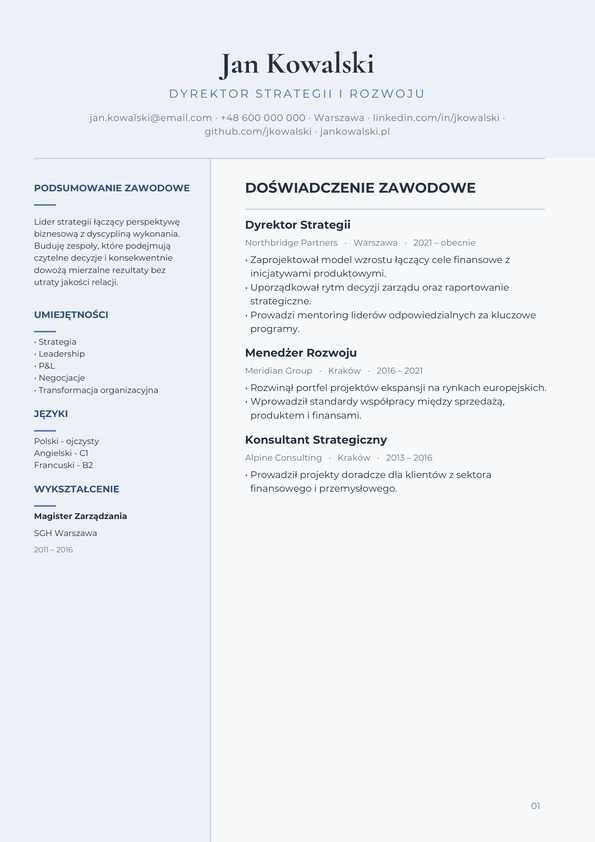
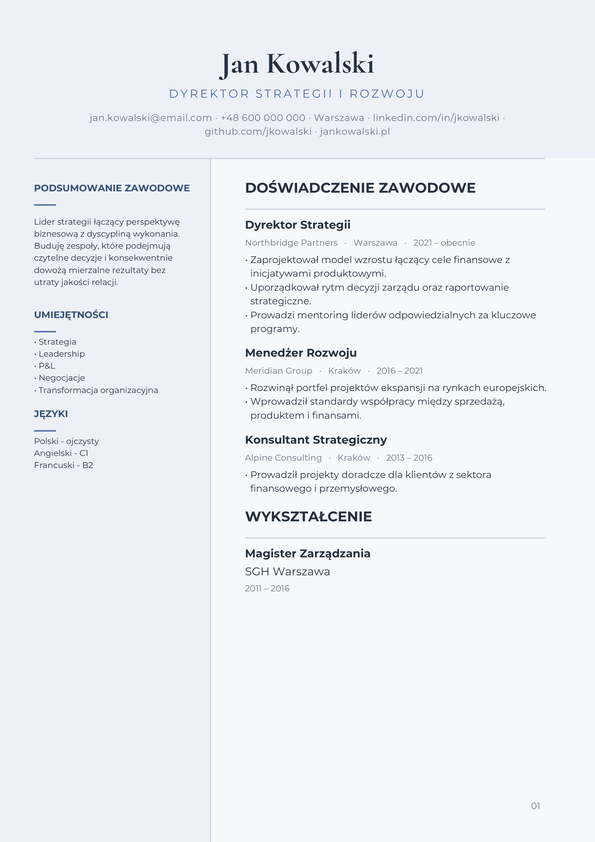
feat: balance-driven Sterling layout — regenerate starter/mockup, docs
Regenerate the Sterling starter and mockup from the planner-driven
generator (Education now renders in the main column beside a lighter
sidebar). Update sterling.test.js for the new multi-section main column,
and document the balance-driven placement in the README (EN + PL).

Changed region(s): [[0.0605, 0.5558, 0.2118, 0.6793], [0.3933, 0.6485, 0.6353, 0.7102], [0.4235, 0.5867, 0.6353, 0.6176]]

diff --git a/frontend/src/templates/sterling.js b/frontend/src/templates/sterling.js
@@ -306,106 +306,6 @@ const STERLING_ELEMENTS = [
   },
   {
     "category": "text",
-    "content": "WYKSZTAŁCENIE",
-    "fontSize": 9.4,
-    "fontFamily": "Montserrat",
-    "color": "#33517A",
-    "left": 34.0,
-    "top": 489.0,
-    "zIndex": 3,
-    "page": 1,
-    "bold": true,
-    "italic": false,
-    "letterSpacing": 1.3,
-    "flowRole": "sidebar-chrome",
-    "flowLane": "sidebar"
-  },
-  {
-    "category": "line",
-    "left": 34.0,
-    "top": 505.28,
-    "width": 22,
-    "height": 1.4,
-    "backgroundColor": "#4A6FA5",
-    "zIndex": 2,
-    "page": 1,
-    "flowRole": "sidebar-chrome",
-    "flowLane": "sidebar"
-  },
-  {
-    "category": "textarea",
-    "content": "Magister Zarządzania",
-    "left": 34.0,
-    "top": 510.0,
-    "width": 152.0,
-    "height": 13,
-    "fontSize": 8.3,
-    "lineHeight": 12.04,
-    "letterSpacing": 0,
-    "color": "#26313F",
-    "fontFamily": "Montserrat",
-    "zIndex": 3,
-    "page": 1,
-    "bold": true,
-    "italic": false,
-    "align": "left",
-    "bulletList": false,
-    "autoHeight": true,
-    "preserveInitialLayout": true,
-    "flowGroup": "record-812d7a2d6f68",
-    "flowRole": "content",
-    "flowLane": "sidebar"
-  },
-  {
-    "category": "textarea",
-    "content": "SGH Warszawa",
-    "left": 34.0,
-    "top": 527.0,
-    "width": 152.0,
-    "height": 13,
-    "fontSize": 8.3,
-    "lineHeight": 12.04,
-    "letterSpacing": 0,
-    "color": "#26313F",
-    "fontFamily": "Montserrat",
-    "zIndex": 3,
-    "page": 1,
-    "bold": false,
-    "italic": false,
-    "align": "left",
-    "bulletList": false,
-    "autoHeight": true,
-    "preserveInitialLayout": true,
-    "flowGroup": "record-812d7a2d6f68",
-    "flowRole": "content",
-    "flowLane": "sidebar"
-  },
-  {
-    "category": "textarea",
-    "content": "2011 – 2016",
-    "left": 34.0,
-    "top": 544.0,
-    "width": 152.0,
-    "height": 12,
-    "fontSize": 7.5,
-    "lineHeight": 11.54,
-    "letterSpacing": 0,
-    "color": "#6B7684",
-    "fontFamily": "Montserrat",
-    "zIndex": 3,
-    "page": 1,
-    "bold": false,
-    "italic": false,
-    "align": "left",
-    "bulletList": false,
-    "autoHeight": true,
-    "preserveInitialLayout": true,
-    "flowGroup": "record-812d7a2d6f68",
-    "flowRole": "content",
-    "flowLane": "sidebar"
-  },
-  {
-    "category": "text",
     "content": "DOŚWIADCZENIE ZAWODOWE",
     "fontSize": 14.0,
     "fontFamily": "Montserrat",
@@ -450,7 +350,7 @@ const STERLING_ELEMENTS = [
     "bulletList": false,
     "autoHeight": true,
     "preserveInitialLayout": true,
-    "flowGroup": "record-1f8daff69b54",
+    "flowGroup": "record-2e527a1f8186",
     "flowRole": "content"
   },
   {
@@ -473,7 +373,7 @@ const STERLING_ELEMENTS = [
     "bulletList": false,
     "autoHeight": true,
     "preserveInitialLayout": true,
-    "flowGroup": "record-1f8daff69b54",
+    "flowGroup": "record-2e527a1f8186",
     "flowRole": "content"
   },
   {
@@ -496,7 +396,7 @@ const STERLING_ELEMENTS = [
     "bulletList": true,
     "autoHeight": true,
     "preserveInitialLayout": true,
-    "flowGroup": "record-1f8daff69b54",
+    "flowGroup": "record-2e527a1f8186",
     "flowRole": "content"
   },
   {
@@ -519,7 +419,7 @@ const STERLING_ELEMENTS = [
     "bulletList": false,
     "autoHeight": true,
     "preserveInitialLayout": true,
-    "flowGroup": "record-643afe34a0bf",
+    "flowGroup": "record-86410ff658ba",
     "flowRole": "content"
   },
   {
@@ -542,7 +442,7 @@ const STERLING_ELEMENTS = [
     "bulletList": false,
     "autoHeight": true,
     "preserveInitialLayout": true,
-    "flowGroup": "record-643afe34a0bf",
+    "flowGroup": "record-86410ff658ba",
     "flowRole": "content"
   },
   {
@@ -565,7 +465,7 @@ const STERLING_ELEMENTS = [
     "bulletList": true,
     "autoHeight": true,
     "preserveInitialLayout": true,
-    "flowGroup": "record-643afe34a0bf",
+    "flowGroup": "record-86410ff658ba",
     "flowRole": "content"
   },
   {
@@ -588,7 +488,7 @@ const STERLING_ELEMENTS = [
     "bulletList": false,
     "autoHeight": true,
     "preserveInitialLayout": true,
-    "flowGroup": "record-7d996ae8e6ef",
+    "flowGroup": "record-db6132e305b3",
     "flowRole": "content"
   },
   {
@@ -611,7 +511,7 @@ const STERLING_ELEMENTS = [
     "bulletList": false,
     "autoHeight": true,
     "preserveInitialLayout": true,
-    "flowGroup": "record-7d996ae8e6ef",
+    "flowGroup": "record-db6132e305b3",
     "flowRole": "content"
   },
   {
@@ -634,7 +534,102 @@ const STERLING_ELEMENTS = [
     "bulletList": true,
     "autoHeight": true,
     "preserveInitialLayout": true,
-    "flowGroup": "record-7d996ae8e6ef",
+    "flowGroup": "record-db6132e305b3",
+    "flowRole": "content"
+  },
+  {
+    "category": "text",
+    "content": "WYKSZTAŁCENIE",
+    "fontSize": 14.0,
+    "fontFamily": "Montserrat",
+    "color": "#26313F",
+    "left": 245.0,
+    "top": 516.7,
+    "zIndex": 3,
+    "page": 1,
+    "bold": true,
+    "italic": false,
+    "letterSpacing": 0.8,
+    "flowRole": "section-chrome"
+  },
+  {
+    "category": "line",
+    "left": 245.0,
+    "top": 537.4000000000001,
+    "width": 300.0,
+    "height": 1,
+    "backgroundColor": "#C7CFDA",
+    "zIndex": 2,
+    "page": 1,
+    "flowRole": "section-chrome"
+  },
+  {
+    "category": "textarea",
+    "content": "Magister Zarządzania",
+    "left": 245.0,
+    "top": 546.4000000000001,
+    "width": 300.0,
+    "height": 14,
+    "fontSize": 11.2,
+    "lineHeight": 14.0,
+    "letterSpacing": 0,
+    "color": "#26313F",
+    "fontFamily": "Montserrat",
+    "zIndex": 2,
+    "page": 1,
+    "bold": true,
+    "italic": false,
+    "align": "left",
+    "bulletList": false,
+    "autoHeight": true,
+    "preserveInitialLayout": true,
+    "flowGroup": "record-acbb1b827f4e",
+    "flowRole": "content"
+  },
+  {
+    "category": "textarea",
+    "content": "SGH Warszawa",
+    "left": 245.0,
+    "top": 564.4000000000001,
+    "width": 300.0,
+    "height": 14,
+    "fontSize": 11.2,
+    "lineHeight": 14.0,
+    "letterSpacing": 0,
+    "color": "#26313F",
+    "fontFamily": "Montserrat",
+    "zIndex": 2,
+    "page": 1,
+    "bold": false,
+    "italic": false,
+    "align": "left",
+    "bulletList": false,
+    "autoHeight": true,
+    "preserveInitialLayout": true,
+    "flowGroup": "record-acbb1b827f4e",
+    "flowRole": "content"
+  },
+  {
+    "category": "textarea",
+    "content": "2011 – 2016",
+    "left": 245.0,
+    "top": 582.4000000000001,
+    "width": 300.0,
+    "height": 12,
+    "fontSize": 8.6,
+    "lineHeight": 11.8,
+    "letterSpacing": 0,
+    "color": "#6B7684",
+    "fontFamily": "Montserrat",
+    "zIndex": 2,
+    "page": 1,
+    "bold": false,
+    "italic": false,
+    "align": "left",
+    "bulletList": false,
+    "autoHeight": true,
+    "preserveInitialLayout": true,
+    "flowGroup": "record-acbb1b827f4e",
     "flowRole": "content"
   }
 ];

diff --git a/frontend/src/templates/sterling.test.js b/frontend/src/templates/sterling.test.js
@@ -83,7 +83,9 @@ test("Sterling is a wide-sidebar, letterhead-masthead layout with structured sid
         (element) => element.flowRole === "sidebar-chrome" && element.category === "text"
             && element.left === 34 && element.bold === true,
     );
-    assert.ok(sidebarKickers.length >= 4, "summary + education + skills + languages, at minimum");
+    // Education may be routed to the main column by the two-column planner, so
+    // the rail is guaranteed only Summary + Skills + Languages here.
+    assert.ok(sidebarKickers.length >= 3, "summary + skills + languages, at minimum");
     assert.ok(sidebarKickers.every((element) => (element.page ?? 1) === 1));
     assert.ok(sidebarKickers.every((element) => element.flowLane === "sidebar"));
 
@@ -109,30 +111,33 @@ test("Sterling is a wide-sidebar, letterhead-masthead layout with structured sid
     assert.ok(languagesBody.content.includes("Polski - ojczysty"));
     assert.equal(languagesBody.flowLane, "sidebar");
 
-    // Education is the one structured exception in the sidebar: separate
-    // degree / school / period elements (matching single-column records),
-    // not one mashed textarea.
+    // Education renders as structured degree / school / period elements
+    // (matching single-column records), not one mashed textarea, and shares a
+    // flowGroup — whichever column the two-column planner routes it to.
     const eduDegree = sterlingTemplate.find((element) => element.content === "Magister Zarządzania");
     const eduSchool = sterlingTemplate.find((element) => element.content === "SGH Warszawa");
     assert.ok(eduDegree?.bold);
     assert.ok(eduSchool);
-    assert.equal(eduDegree.flowLane, "sidebar");
     assert.equal(eduDegree.flowGroup, eduSchool.flowGroup);
 
-    // ── Main column: exactly one section (Experience) — every other section
-    // type lives in the sidebar by design. ────────────────────────────────────
+    // ── Main column: Experience is always here; the two-column planner may also
+    // route Education (and other sections) here to balance the columns against
+    // the page-1-only sidebar. Every main-column heading is left-anchored at
+    // MAIN_L and carries a matching rule in the shared harmonious colour. ─────
     const headingLabels = sterlingTemplate.filter(
         (element) => element.flowRole === "section-chrome" && element.category === "text",
     );
-    assert.equal(headingLabels.length, 1);
-    assert.equal(headingLabels[0].content, "DOŚWIADCZENIE ZAWODOWE");
-    assert.equal(headingLabels[0].left, MAIN_L);
+    assert.ok(headingLabels.some((element) => element.content === "DOŚWIADCZENIE ZAWODOWE"));
+    assert.ok(headingLabels.every((element) => element.left === MAIN_L));
 
     const sectionRules = sterlingTemplate.filter(
         (element) => element.flowRole === "section-chrome" && element.category === "line"
             && element.width === MAIN_W && element.backgroundColor === RULE,
     );
-    assert.equal(sectionRules.length, 1, "the section rule reuses the same harmonious rule color");
+    assert.equal(
+        sectionRules.length, headingLabels.length,
+        "each main-column heading has a matching rule in the shared harmonious colour",
+    );
 
     // ── Records: stacked title → org → period → bullets, every line its own
     // element (no same-row ordinal badge — see the generator's module

diff --git a/README.md b/README.md
@@ -899,7 +899,9 @@ Tests:
 
 ### Sterling wide-sidebar elegant template
 
-Sterling is a paid, two-column template (`layouts: ["sidebar"]`) with a quiet blue-gray (`#4A6FA5` accent, `#26313F` ink, `#F7F8FA` paper) palette. Its brief is a **centered letterhead masthead** — serif (`CormorantGaramond`) display name, tracked uppercase title, mid-dot contact line — sitting on a **full-width tinted "letterhead band"** (a `595`-pt-wide filled rectangle in the rail tint `#EDF1F6`, from the top of the page down to the masthead rule) and closed by a **horizontal rule spanning both columns**. The band exists so the vertical sidebar divider and the rail fill both begin at the band's bottom edge (`rule_y`) instead of at `y = 0`: because the masthead is centered on the page, its title and contact lines cross the `x = 210` column boundary, and a full-height divider would run straight up through them, visually "cutting" the centered letterhead. Reusing the rail tint (`#EDF1F6`) makes the top band and the left rail read as one continuous field, while the main column below the band stays on paper. Below that rule, a wide sidebar (`210` pt) carries Summary, Education, Skills, and Languages; the main column carries only Experience (plus any record-style extras a CV happens to have). One rule color (`#C7CFDA`) is reused for the masthead underline, the sidebar divider, and every main-column section rule, so the page reads as one coherent system rather than several separately-styled dividers — the "harmonijny" (harmonious) brief was explicit about this. Continuation pages carry no masthead, so their rail and divider run the full page height.
+Sterling is a paid, two-column template (`layouts: ["sidebar"]`) with a quiet blue-gray (`#4A6FA5` accent, `#26313F` ink, `#F7F8FA` paper) palette. Its brief is a **centered letterhead masthead** — serif (`CormorantGaramond`) display name, tracked uppercase title, mid-dot contact line — sitting on a **full-width tinted "letterhead band"** (a `595`-pt-wide filled rectangle in the rail tint `#EDF1F6`, from the top of the page down to the masthead rule) and closed by a **horizontal rule spanning both columns**. The band exists so the vertical sidebar divider and the rail fill both begin at the band's bottom edge (`rule_y`) instead of at `y = 0`: because the masthead is centered on the page, its title and contact lines cross the `x = 210` column boundary, and a full-height divider would run straight up through them, visually "cutting" the centered letterhead. Reusing the rail tint (`#EDF1F6`) makes the top band and the left rail read as one continuous field, while the main column below the band stays on paper. Below that rule the page splits into a wide sidebar (`210` pt) and the main column; **which section lands in which column is decided by a balance-driven planner** (described next), not a fixed rule. One rule color (`#C7CFDA`) is reused for the masthead underline, the sidebar divider, and every main-column section rule, so the page reads as one coherent system rather than several separately-styled dividers — the "harmonijny" (harmonious) brief was explicit about this. Continuation pages carry no masthead, so their rail and divider run the full page height.
+
+**Section placement is balance-driven.** Rather than filling the sidebar first, Sterling measures every section's height in both column widths and calls the shared `plan_columns` planner (`backend/app/services/cv_templates/shared/column_planner.py`) to partition sections between the columns, minimising page-1 imbalance. Experience is anchored to the main column; every other section is movable, and may render in either column. Because the sidebar cannot paginate, the sidebar assignment is a hard page-1 fit while the main column may overflow onto later pages (its overflow is therefore not counted as wasted space). In practice Education follows Experience in the main column, and moves into the sidebar only when a long Experience block already fills page 1. The planner is a small greedy local search: seed each section by its natural column affinity, force the sidebar under budget, then repeatedly apply the single move that most reduces `max(empty_sidebar, empty_main)` until the columns are balanced or no move clears a minimum-improvement threshold.
 
 The masthead is centered — every element in it carries `flowRole: "masthead"` (fully exempt from section packing), so centering introduces no column-detection risk the way a centered *section heading* would. The sidebar reuses the shared `_sidebar_candidates` / `_fit_sidebar_sections` / `_fitted_sidebar_body_elements` machinery Tessera and Slate already use and **does not filter out Skills** — Sterling's brief was "every simple/flat section belongs in the sidebar, Education is the one structured exception," which is exactly what that shared, unfiltered candidate list already provides (Education renders as separate degree/school/meta/bullet elements sharing one `flowGroup`, not a single mashed textarea).
 
@@ -907,7 +909,8 @@ Implementation note this template surfaced: `_fit_sidebar_sections` auto-picks a
 
 Implementation:
 
-- `backend/app/services/cv_templates/templates/sterling.py`, function `_gen_sterling` — centered letterhead masthead + closing rule, `sidebar_kicker`, unconditional summary + unfiltered `_fit_sidebar_sections` fitting (Education/Skills/Languages/any simple extra), single-section main column (Experience only) via the shared record helpers
+- `backend/app/services/cv_templates/shared/column_planner.py`, `plan_columns` / `PlaceableSection` / `ColumnPlan` — the pure, balance-driven two-column partitioner shared by sidebar templates
+- `backend/app/services/cv_templates/templates/sterling.py`, function `_gen_sterling` — centered letterhead masthead + closing rule, `sidebar_kicker`, per-section descriptor building (measures each section in both column widths), `plan_columns` call, then per-column rendering through the shared sidebar (`_fit_sidebar_sections` / `_fitted_sidebar_body_elements`) and main (`_place_experience_record` / `_place_education_record` / `_place_skills_section` / `_extra_sections`) helpers
 - `backend/app/services/cv_templates/registry.py`, `_GENERATORS["sterling"]` and `TEMPLATE_LAYOUTS["sterling"]` (`frozenset({"sidebar"})`)
 - `frontend/src/templates/sterling.js` — static starter emitted directly from the generator's own demo output (no images, so no API_BASE_URL rewrite is needed); exported array `sterlingTemplate`
 - `frontend/src/templates/index.js`, registry entry `sterling` (`tier: "paid"`, `layouts: ["sidebar"]`, `accent: "#4A6FA5"`)
@@ -917,6 +920,8 @@ Tests:
 
 - `frontend/src/templates/sterling.test.js` — page/sidebar/divider decorations (wide rail, thin rule-colored divider), the full-width letterhead band with the rail fill and divider both starting at the band's bottom edge (never crossing the centered masthead), centered masthead content closed by a horizontal rule, sidebar kickers tagged `flowRole: "sidebar-chrome"` + `flowLane: "sidebar"`, summary/skills/languages in the sidebar, structured (not mashed) sidebar education sharing one `flowGroup`, exactly one main-column section (Experience), stacked (not same-row) record title/org/period, zero `rectangle` elements
 - `frontend/src/templates/sterling.pack.test.js` (with `sterling.multipage.fixture.json`) — a real two-page, four-job Sterling document: the Experience heading stays glued to its body through `listDocumentSections` / `sectionElementIds` after `applyFlowSpacing` at both the default and a compact rhythm, the sidebar lane never folds into the main column, and structured sidebar education elements keep their shared `flowGroup` through a rhythm change
+- `backend/tests/test_column_planner.py` — the pure planner: a disjoint-cover partition, Experience always in main, a short Experience keeping Education in main, a large Experience pushing Education to the sidebar, a huge Experience keeping the sidebar within its page-1 budget, and the min-improvement threshold preventing trivial moves
+- `backend/tests/test_cv_template_layouts.py`, `test_sterling_balances_education_into_the_main_column` — end-to-end: a short-experience CV renders Education in the main column (`left == 245`), not the rail
 - `backend/tests/test_cv_template_layouts.py` and `backend/tests/test_template_registry_sync.py` iterate every registered generator, so Sterling is covered for summary-equals-body type size, page bounds, and frontend/backend id / layout-tag / tier parity without a dedicated entry
 
 ### Icon-tagged templates and icon reflow
@@ -2511,7 +2516,9 @@ Testy:
 
 ### Szablon Sterling (elegancki, szeroki sidebar)
 
-Sterling to płatny, dwukolumnowy szablon (`layouts: ["sidebar"]`) w stonowanej palecie niebiesko-szarej (`#4A6FA5` akcent, `#26313F` tusz, `#F7F8FA` papier). Brief to **wycentrowany masthead w stylu papieru firmowego** — szeryfowe (`CormorantGaramond`) imię i nazwisko, rozstrzelony wielkoliterowy tytuł, linia kontaktu z kropkami pośrodku — osadzony na **pełnoszerokościowym, przyciemnionym „pasie papieru firmowego”** (wypełniony prostokąt o szerokości `595` pt w kolorze szyny `#EDF1F6`, od góry strony do linii mastheadu) i zamknięty **poziomą linią rozciągającą się na obie kolumny**. Pas istnieje po to, aby pionowy divider sidebaru oraz wypełnienie szyny zaczynały się dopiero przy dolnej krawędzi pasa (`rule_y`), a nie przy `y = 0`: ponieważ masthead jest wycentrowany na stronie, jego tytuł i linia kontaktu przecinają granicę kolumn `x = 210`, a divider biegnący od `y = 0` przechodziłby przez nie w pionie, wizualnie „przycinając” wycentrowany nagłówek. Reużycie koloru szyny (`#EDF1F6`) sprawia, że górny pas i lewa szyna czytają się jako jedno ciągłe pole, podczas gdy kolumna główna poniżej pasa pozostaje na papierze. Poniżej tej linii szeroki sidebar (`210` pt) niesie Podsumowanie, Wykształcenie, Umiejętności i Języki; kolumna główna zawiera wyłącznie Doświadczenie (plus dowolne sekcje dodatkowe typu rekordowego, jeśli CV je ma). Jeden kolor linii (`#C7CFDA`) jest reużywany dla podkreślenia mastheadu, dividera sidebaru i każdej linii sekcji w kolumnie głównej, dzięki czemu strona czyta się jako jeden spójny system, a nie zbiór osobno stylizowanych linii — brief „harmonijny” był w tej kwestii wyraźny. Strony kontynuacyjne nie mają mastheadu, więc ich szyna i divider biegną na całą wysokość strony.
+Sterling to płatny, dwukolumnowy szablon (`layouts: ["sidebar"]`) w stonowanej palecie niebiesko-szarej (`#4A6FA5` akcent, `#26313F` tusz, `#F7F8FA` papier). Brief to **wycentrowany masthead w stylu papieru firmowego** — szeryfowe (`CormorantGaramond`) imię i nazwisko, rozstrzelony wielkoliterowy tytuł, linia kontaktu z kropkami pośrodku — osadzony na **pełnoszerokościowym, przyciemnionym „pasie papieru firmowego”** (wypełniony prostokąt o szerokości `595` pt w kolorze szyny `#EDF1F6`, od góry strony do linii mastheadu) i zamknięty **poziomą linią rozciągającą się na obie kolumny**. Pas istnieje po to, aby pionowy divider sidebaru oraz wypełnienie szyny zaczynały się dopiero przy dolnej krawędzi pasa (`rule_y`), a nie przy `y = 0`: ponieważ masthead jest wycentrowany na stronie, jego tytuł i linia kontaktu przecinają granicę kolumn `x = 210`, a divider biegnący od `y = 0` przechodziłby przez nie w pionie, wizualnie „przycinając” wycentrowany nagłówek. Reużycie koloru szyny (`#EDF1F6`) sprawia, że górny pas i lewa szyna czytają się jako jedno ciągłe pole, podczas gdy kolumna główna poniżej pasa pozostaje na papierze. Poniżej tej linii strona dzieli się na szeroki sidebar (`210` pt) i kolumnę główną; **o tym, która sekcja trafia do której kolumny, decyduje planer sterowany balansem** (opisany dalej), a nie stała reguła. Jeden kolor linii (`#C7CFDA`) jest reużywany dla podkreślenia mastheadu, dividera sidebaru i każdej linii sekcji w kolumnie głównej, dzięki czemu strona czyta się jako jeden spójny system, a nie zbiór osobno stylizowanych linii — brief „harmonijny” był w tej kwestii wyraźny. Strony kontynuacyjne nie mają mastheadu, więc ich szyna i divider biegną na całą wysokość strony.
+
+**Rozmieszczanie sekcji jest sterowane balansem.** Zamiast najpierw wypełniać sidebar, Sterling mierzy wysokość każdej sekcji w obu szerokościach kolumn i wywołuje wspólny planer `plan_columns` (`backend/app/services/cv_templates/shared/column_planner.py`), który dzieli sekcje między kolumny, minimalizując nierównowagę na stronie 1. Doświadczenie jest zakotwiczone w kolumnie głównej; każda inna sekcja jest ruchoma i może wyrenderować się w dowolnej kolumnie. Ponieważ sidebar nie może dzielić się na strony, jego przydział to twarde dopasowanie do strony 1, podczas gdy kolumna główna może przechodzić na kolejne strony (jej nadmiar nie jest więc liczony jako zmarnowane miejsce). W praktyce Wykształcenie następuje po Doświadczeniu w kolumnie głównej i przechodzi do sidebara tylko wtedy, gdy długie Doświadczenie zapełnia już stronę 1. Planer to małe zachłanne przeszukiwanie lokalne: zasiej każdą sekcję według jej naturalnej przynależności do kolumny, wepchnij sidebar poniżej budżetu, a następnie wielokrotnie zastosuj pojedynczy ruch najbardziej redukujący `max(puste_sidebar, puste_główna)`, aż kolumny się zrównoważą lub żaden ruch nie przekroczy progu minimalnej poprawy.
 
 Masthead jest wycentrowany — każdy jego element ma `flowRole: "masthead"` (całkowicie zwolniony z packingu sekcji), więc centrowanie nie niesie ryzyka związanego z detekcją kolumn, jakie miałoby centrowanie prawdziwego *nagłówka sekcji*. Sidebar reużywa wspólny mechanizm `_sidebar_candidates` / `_fit_sidebar_sections` / `_fitted_sidebar_body_elements`, którego używają już Tessera i Slate, i **nie filtruje Umiejętności** — brief Sterling brzmiał „każda prosta/płaska sekcja należy do sidebaru, Wykształcenie jest jedynym strukturalnym wyjątkiem”, co dokładnie zapewnia ta sama, niefiltrowana lista kandydatów (Wykształcenie renderuje się jako osobne elementy stopień/uczelnia/meta/punkty współdzielące jeden `flowGroup`, a nie jedna zlepiona textarea).
 
@@ -2519,7 +2526,8 @@ Implementacyjna uwaga, którą ten szablon ujawnił: `_fit_sidebar_sections` aut
 
 Implementacja:
 
-- `backend/app/services/cv_templates/templates/sterling.py`, funkcja `_gen_sterling` — wycentrowany masthead w stylu papieru firmowego + zamykająca linia, `sidebar_kicker`, bezwarunkowe podsumowanie + niefiltrowane dopasowanie `_fit_sidebar_sections` (Wykształcenie/Umiejętności/Języki/dowolna prosta sekcja dodatkowa), jednosekcyjna kolumna główna (wyłącznie Doświadczenie) przez wspólne helpery rekordów
+- `backend/app/services/cv_templates/shared/column_planner.py`, `plan_columns` / `PlaceableSection` / `ColumnPlan` — czysty, sterowany balansem partycjoner dwukolumnowy współdzielony przez szablony sidebarowe
+- `backend/app/services/cv_templates/templates/sterling.py`, funkcja `_gen_sterling` — wycentrowany masthead w stylu papieru firmowego + zamykająca linia, `sidebar_kicker`, budowa deskryptorów sekcji (mierzy każdą sekcję w obu szerokościach kolumn), wywołanie `plan_columns`, a następnie renderowanie każdej kolumny przez wspólne helpery sidebaru (`_fit_sidebar_sections` / `_fitted_sidebar_body_elements`) i kolumny głównej (`_place_experience_record` / `_place_education_record` / `_place_skills_section` / `_extra_sections`)
 - `backend/app/services/cv_templates/registry.py`, `_GENERATORS["sterling"]` i `TEMPLATE_LAYOUTS["sterling"]` (`frozenset({"sidebar"})`)
 - `frontend/src/templates/sterling.js` — statyczny starter emitowany bezpośrednio z wyjścia demo generatora (bez obrazów, więc bez przepisywania API_BASE_URL); eksportowana tablica `sterlingTemplate`
 - `frontend/src/templates/index.js`, wpis rejestru `sterling` (`tier: "paid"`, `layouts: ["sidebar"]`, `accent: "#4A6FA5"`)
@@ -2529,6 +2537,8 @@ Testy:
 
 - `frontend/src/templates/sterling.test.js` — dekoracje strony/sidebaru/dividera (szerszy pas, cienka linia w kolorze reguły), pełnoszerokościowy pas papieru firmowego, którego wypełnienie szyny i divider zaczynają się przy dolnej krawędzi pasa (nigdy nie przecinając wycentrowanego mastheadu), wycentrowana treść mastheadu zamknięta poziomą linią, kickery sidebaru otagowane `flowRole: "sidebar-chrome"` + `flowLane: "sidebar"`, podsumowanie/umiejętności/języki w sidebarze, strukturalne (nie zlepione) wykształcenie w sidebarze współdzielące jeden `flowGroup`, dokładnie jedna sekcja w kolumnie głównej (Doświadczenie), warstwowy (nie jednowierszowy) tytuł/organizacja/okres rekordu, zero elementów `rectangle`
 - `frontend/src/templates/sterling.pack.test.js` (z `sterling.multipage.fixture.json`) — realny dwustronicowy dokument Sterling z czterema stanowiskami: nagłówek Doświadczenia pozostaje przyklejony do swojego body w `listDocumentSections` / `sectionElementIds` po `applyFlowSpacing` przy rytmie domyślnym i kompaktowym, tor sidebara nigdy nie wchodzi do kolumny głównej, a strukturalne elementy wykształcenia w sidebarze zachowują wspólny `flowGroup` po zmianie rytmu
+- `backend/tests/test_column_planner.py` — czysty planer: partycja jako rozłączne pokrycie, Doświadczenie zawsze w kolumnie głównej, krótkie Doświadczenie utrzymujące Wykształcenie w głównej, duże Doświadczenie przenoszące Wykształcenie do sidebara, ogromne Doświadczenie utrzymujące sidebar w budżecie strony 1 oraz próg minimalnej poprawy blokujący trywialne ruchy
+- `backend/tests/test_cv_template_layouts.py`, `test_sterling_balances_education_into_the_main_column` — end-to-end: CV z krótkim doświadczeniem renderuje Wykształcenie w kolumnie głównej (`left == 245`), a nie w szynie
 - `backend/tests/test_cv_template_layouts.py` i `backend/tests/test_template_registry_sync.py` iterują po wszystkich zarejestrowanych generatorach, więc Sterling jest objęty pokryciem (rozmiar podsumowania=body, granice strony, parytet id/tagów/planu) bez dedykowanego wpisu
 
 ### Szablony z tagiem `icons` i reflow ikon
